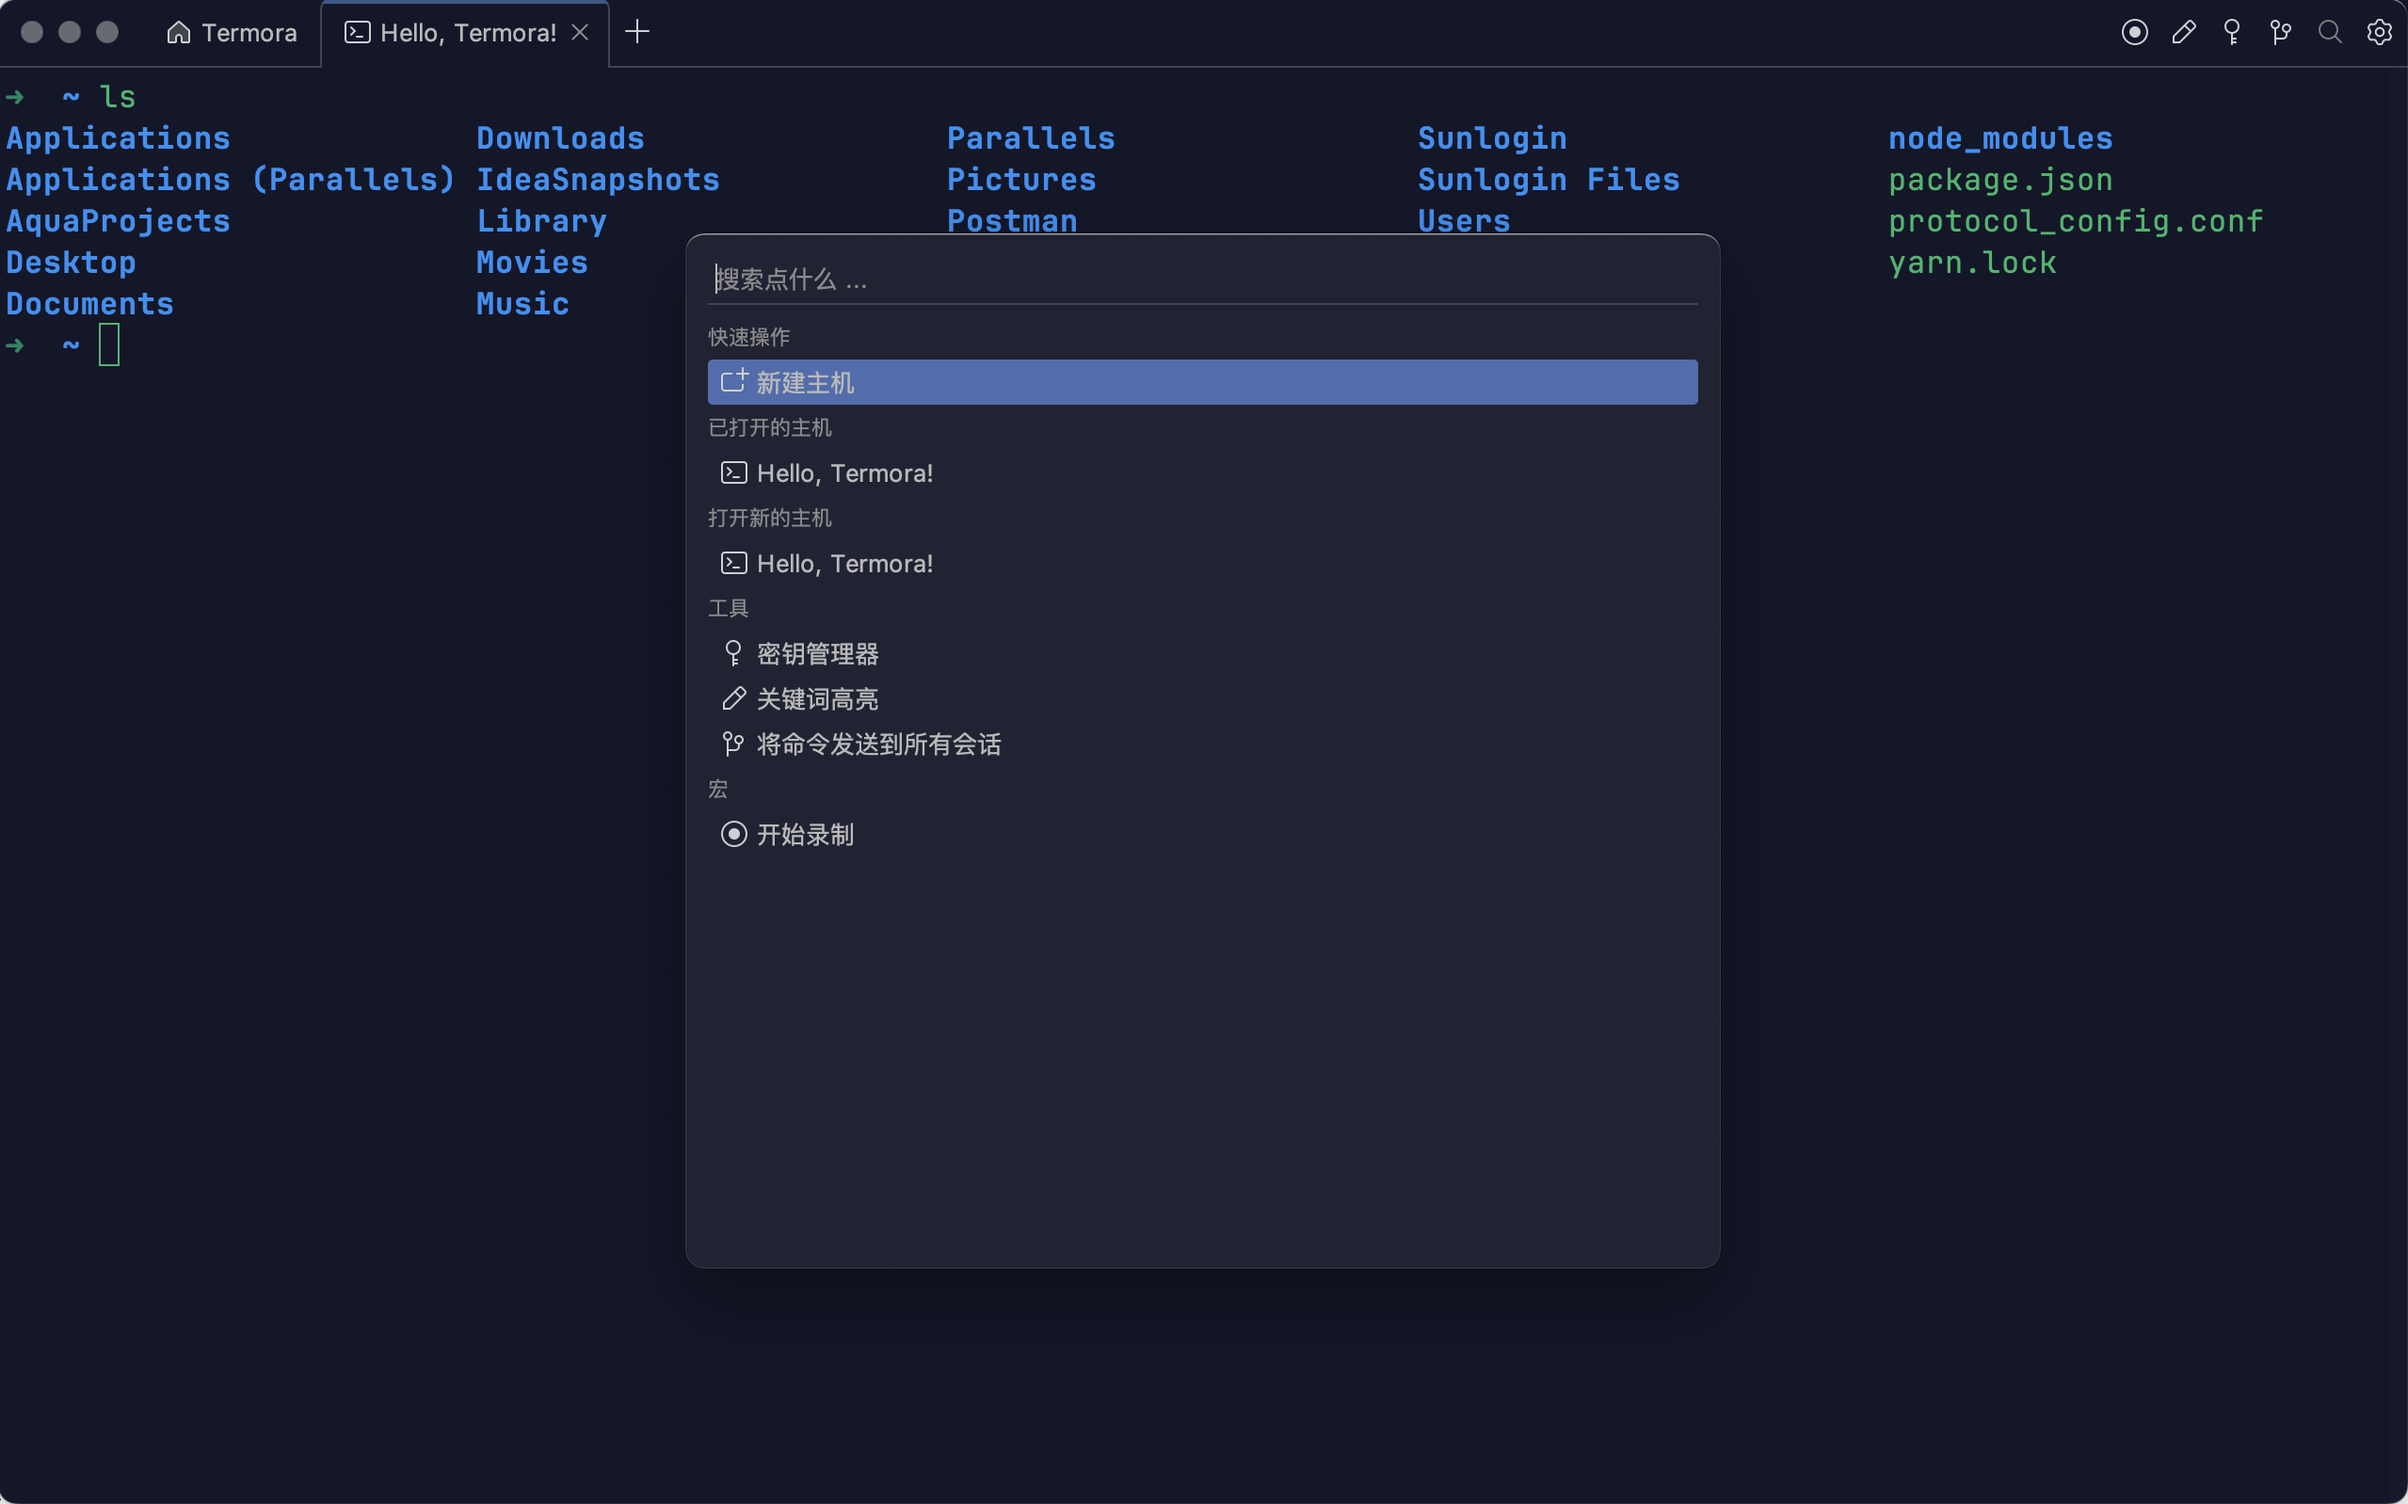
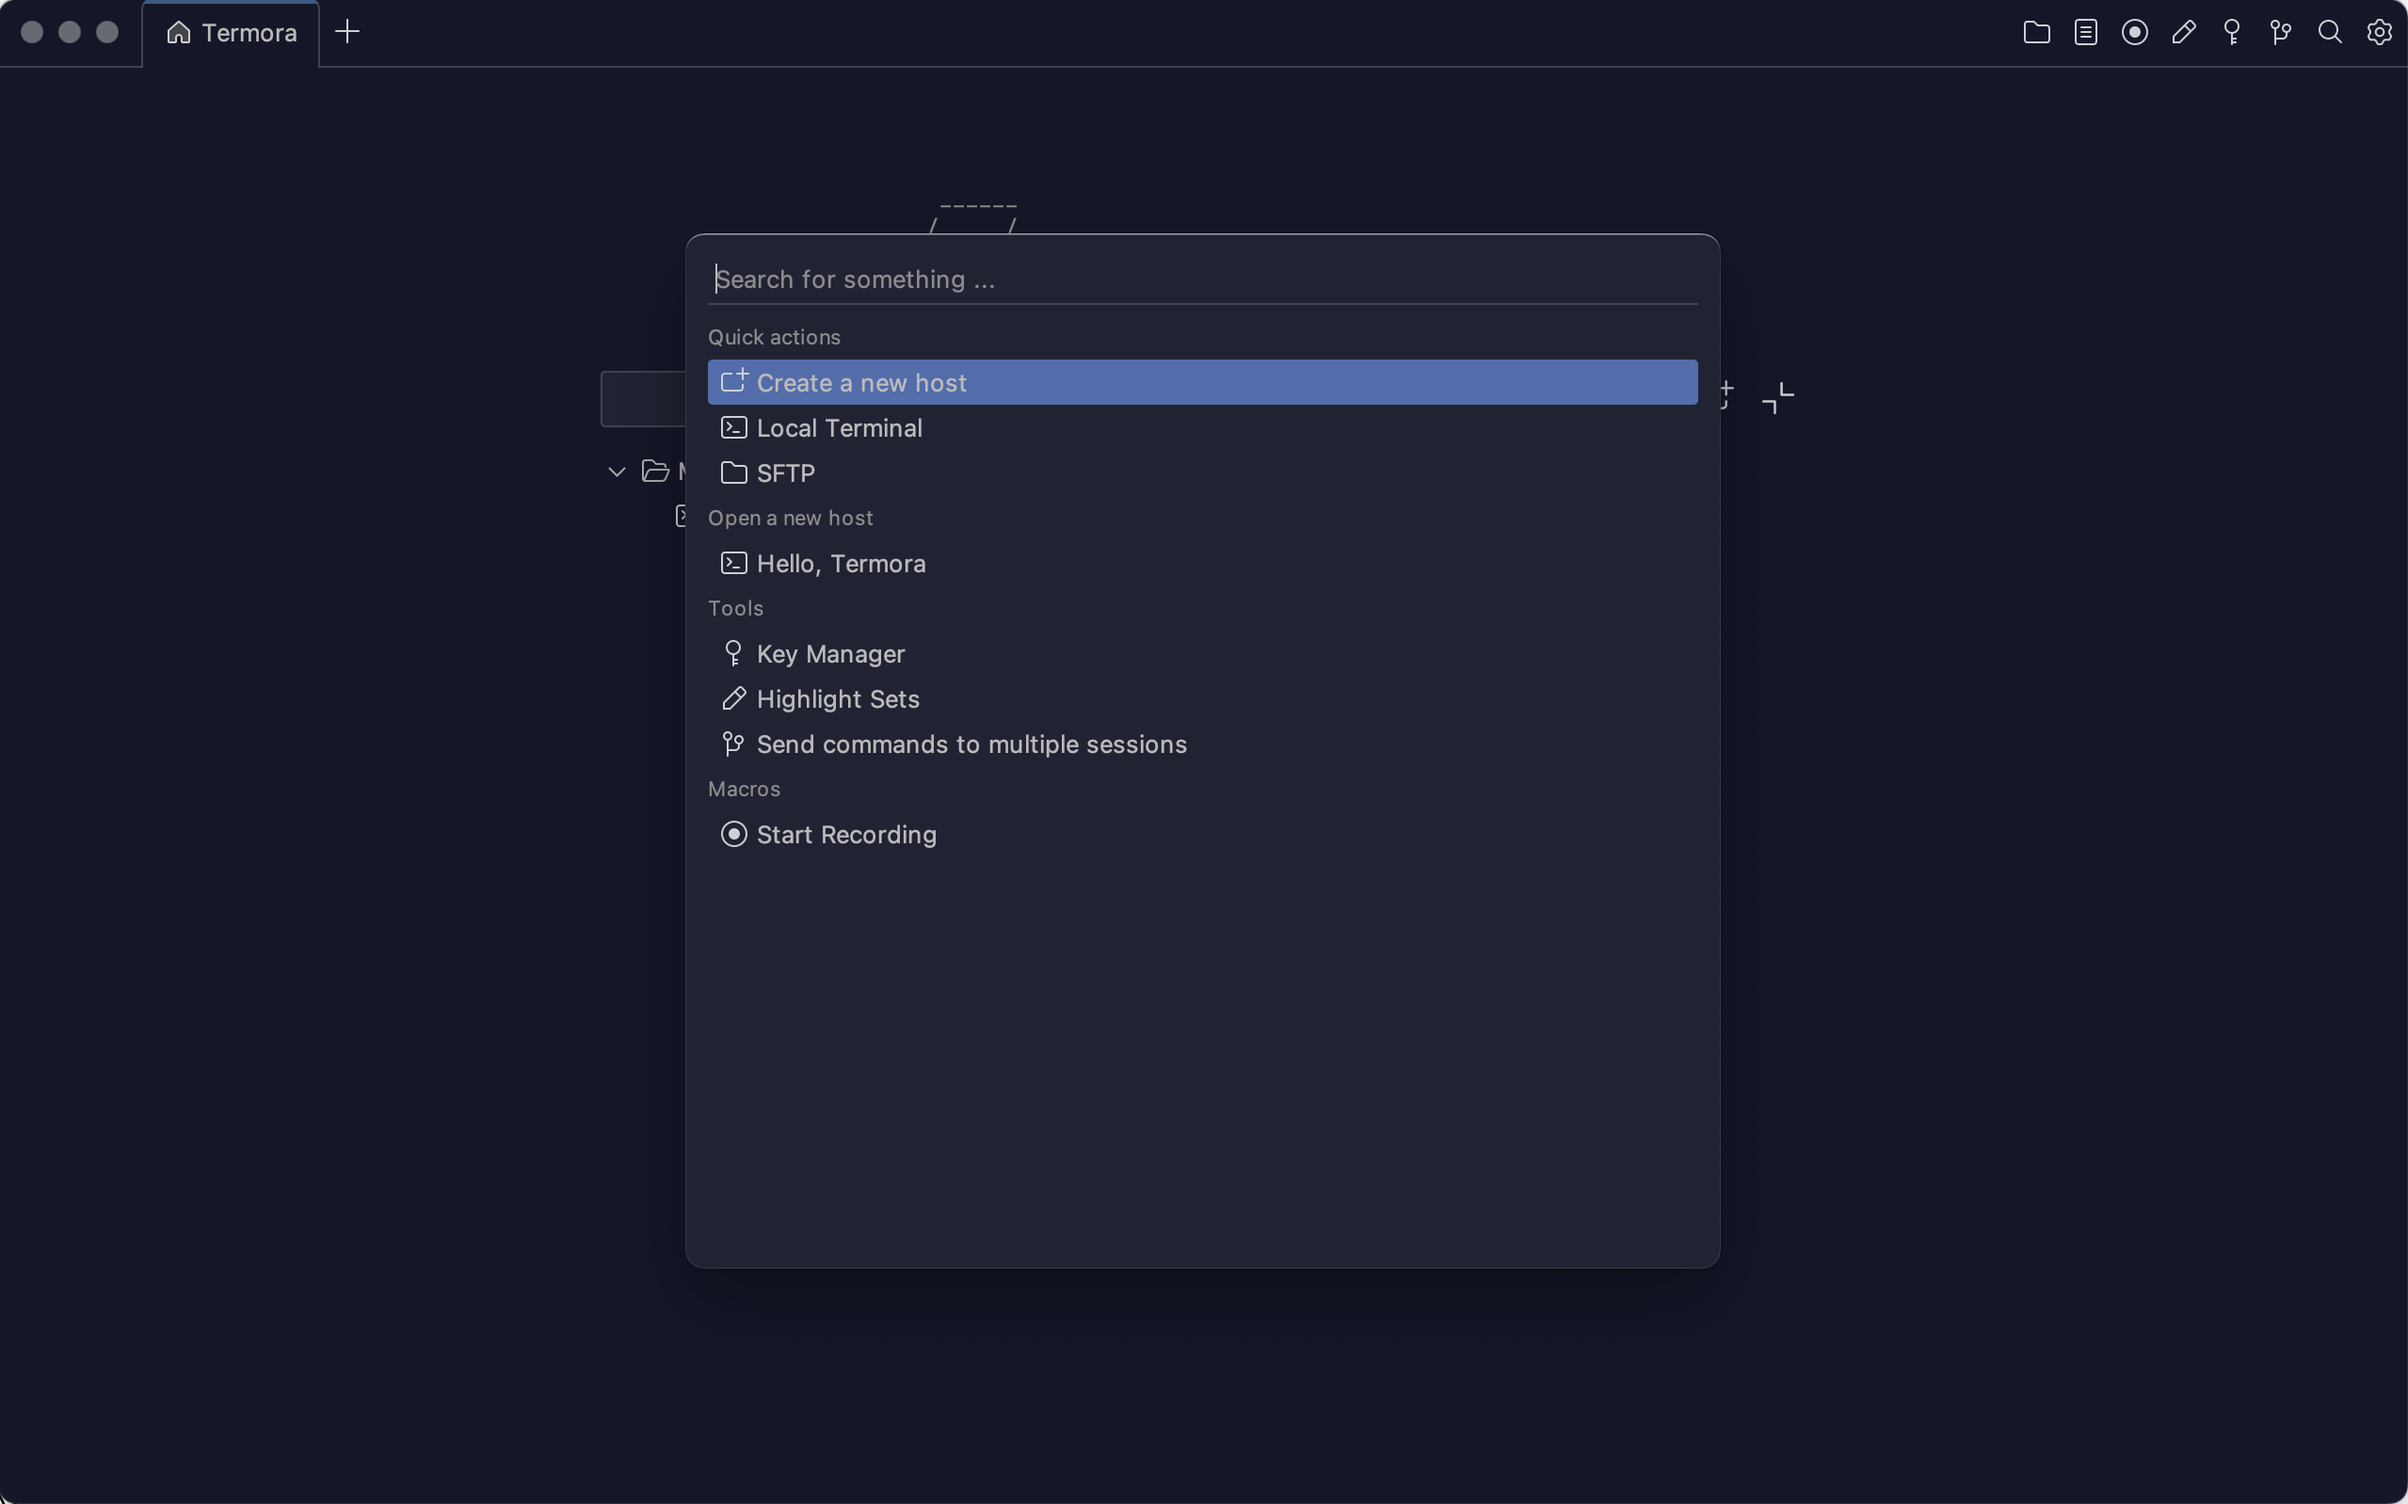
docs: README

diff --git a/README.md b/README.md
@@ -1,46 +1,47 @@
+<div align="center">
+<a href="./README.zh_CN.md">🇨🇳 简体中文</a>
+</div>
+
 # Termora
 
-**Termora** 是一个终端模拟器和 SSH 客户端，支持 Windows，macOS 和 Linux。
+**Termora** is a terminal emulator and SSH client for Windows, macOS and Linux.
 
 <div align="center">
   <img src="./docs/readme.png" alt="termora" />
 </div>
 
-**Termora** 采用 [Kotlin/JVM](https://kotlinlang.org/) 开发并实现了 [XTerm](https://invisible-island.net/xterm/ctlseqs/ctlseqs.html) 协议（尚未完全实现），它的最终目标是通过 [Kotlin Multiplatform](https://kotlinlang.org/docs/multiplatform.html) 实现全平台（含 Android、iOS、iPadOS 等）。
+**Termora** is developed using [Kotlin/JVM](https://kotlinlang.org) and partially implements the [XTerm](https://invisible-island.net/xterm/ctlseqs/ctlseqs.html) protocol (with ongoing improvements). Its ultimate vision is to achieve full platform support (including Android, iOS, and iPadOS) through [Kotlin Multiplatform](https://kotlinlang.org/docs/multiplatform.html).
 
-## 功能特性
+## Features
 
-- 支持 SSH 和本地终端
-- 支持 [SFTP](./docs/sftp-zh_CN.png) 文件传输
-- 支持 Windows、macOS、Linux 平台
-- 支持 Zmodem 协议
-- 支持 SSH 端口转发
-- 支持配置同步到 [Gist](https://gist.github.com)
-- 支持宏（录制脚本并回放）
-- 支持关键词高亮
-- 支持密钥管理器
-- 支持将命令发送到多个会话
-- 支持 [Find Everywhere](./docs/findeverywhere.png) 快速跳转
-- 支持数据加密
+- SSH and local terminal support
+- [SFTP](./docs/sftp.png?raw=1) file transfer support
+- Compatible with Windows, macOS, and Linux
+- Zmodem protocol support
+- SSH port forwarding
+- Configuration synchronization via [Gist](https://gist.github.com)
+- Macro support (record and replay scripts)
+- Keyword highlighting
+- Key management
+- Broadcast commands to multiple sessions
+- [Find Everywhere](./docs/findeverywhere.png?raw=1) quick navigation
+- Data encryption
 - ...
 
-## 下载
+## Download
 
-- [releases](https://github.com/TermoraDev/termora/releases/latest)
+Get the latest version from the [Releases](https://github.com/TermoraDev/termora/releases/latest) page.
 
-### macOS
+## Development
 
-由于苹果开发者证书正在申请中，所以 macOS 用户需要执行 `sudo xattr -r -d com.apple.quarantine /Applications/Termora.app` 后才可以运行程序。
+It is recommended to use the [JetBrainsRuntime](https://github.com/JetBrains/JetBrainsRuntime) version of the JDK and run the program via `./gradlew :run` to run the program.
 
-## 开发
+The program can be run via `./gradlew dist` to automatically build the local version. On macOS: `dmg`, on Windows: `zip`, on Linux: `tar.gz`.
 
-建议使用 [JetBrainsRuntime](https://github.com/JetBrains/JetBrainsRuntime) 的 JDK 版本，通过 `./gradlew :run` 即可运行程序。
 
-通过 `./gradlew dist` 可以自动构建适用于本机的版本。在 macOS 上是：`dmg`，在 Windows 上是：`zip`，在 Linux 上是：`tar.gz`。
+## LICENSE
 
-## 协议
+This software is distributed under a dual-license model. You may choose one of the following options:
 
-本软件采用双重许可模式，您可以选择以下任意一种许可方式：
-
-- AGPL-3.0：根据 [AGPL-3.0](https://opensource.org/license/agpl-v3) 的条款，您可以自由使用、分发和修改本软件。
-- 专有许可：如果希望在闭源或专有环境中使用，请联系作者获取许可。
+- AGPL-3.0: Use, distribute, and modify the software under the terms of the [AGPL-3.0](https://opensource.org/license/agpl-v3).
+- Proprietary License: For closed-source or proprietary use, please contact the author to obtain a commercial license.

diff --git a/README.zh_CN.md b/README.zh_CN.md
@@ -1,0 +1,42 @@
+# Termora
+
+**Termora** 是一个终端模拟器和 SSH 客户端，支持 Windows，macOS 和 Linux。
+
+<div align="center">
+  <img src="./docs/readme-zh_CN.png" alt="termora" />
+</div>
+
+**Termora** 采用 [Kotlin/JVM](https://kotlinlang.org/) 开发并实现了 [XTerm](https://invisible-island.net/xterm/ctlseqs/ctlseqs.html) 协议（尚未完全实现），它的最终目标是通过 [Kotlin Multiplatform](https://kotlinlang.org/docs/multiplatform.html) 实现全平台（含 Android、iOS、iPadOS 等）。
+
+## 功能特性
+
+- 支持 SSH 和本地终端
+- 支持 [SFTP](./docs/sftp-zh_CN.png?raw=1) 文件传输
+- 支持 Windows、macOS、Linux 平台
+- 支持 Zmodem 协议
+- 支持 SSH 端口转发
+- 支持配置同步到 [Gist](https://gist.github.com)
+- 支持宏（录制脚本并回放）
+- 支持关键词高亮
+- 支持密钥管理器
+- 支持将命令发送到多个会话
+- 支持 [Find Everywhere](./docs/findeverywhere-zh_CN.png?raw=1) 快速跳转
+- 支持数据加密
+- ...
+
+## 下载
+
+从 [Releases](https://github.com/TermoraDev/termora/releases/latest) 页面获取最新版本
+
+## 开发
+
+建议使用 [JetBrainsRuntime](https://github.com/JetBrains/JetBrainsRuntime) 的 JDK 版本，通过 `./gradlew :run` 即可运行程序。
+
+通过 `./gradlew dist` 可以自动构建适用于本机的版本。在 macOS 上是：`dmg`，在 Windows 上是：`zip`，在 Linux 上是：`tar.gz`。
+
+## 协议
+
+本软件采用双重许可模式，您可以选择以下任意一种许可方式：
+
+- AGPL-3.0：根据 [AGPL-3.0](https://opensource.org/license/agpl-v3) 的条款，您可以自由使用、分发和修改本软件。
+- 专有许可：如果希望在闭源或专有环境中使用，请联系作者获取许可。
